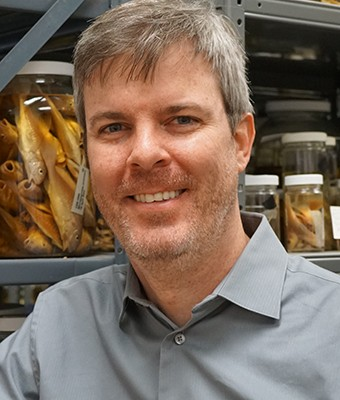
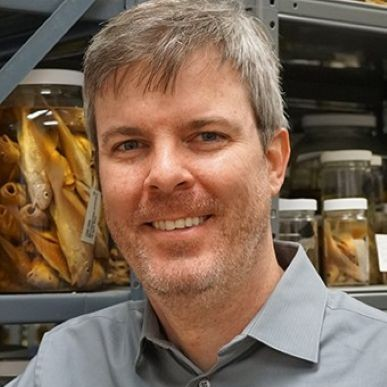
Fix team profiles

diff --git a/pages/team.md b/pages/team.md
@@ -35,7 +35,7 @@ Assistant Professor of Anthropology, Director of Indiana University's William R.
 PhD, World Wildlife Fund, Frankfurt, Germany
 </div>
 <div class="cell medium-5 small-offset-1 text-center">
-<img src="{{ site.baseurl }}{{ site.urlimg }}/Doug_portrait.png">
+<img src="{{ site.baseurl }}{{ site.urlimg }}/Doug_portrait.jpg">
 <h3>Douglas Sanders</h3>
 Conservator, Newfields - Indianapolis Museum of Art
 </div>
